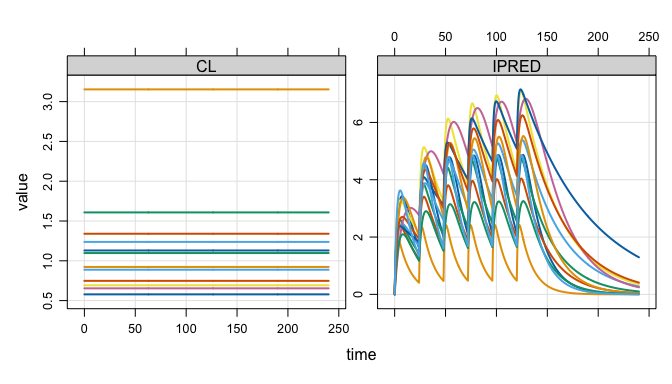
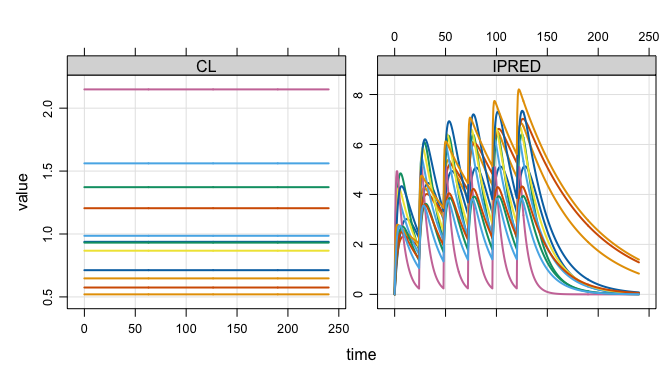
readme

diff --git a/README.md b/README.md
@@ -48,15 +48,15 @@ out
 . Model: popex
 . Dim  : 1.4M 4
 . Files: 1 [11.9 Mb]
-.     ID time       CL     IPRED
-. 1:   1  0.0 1.129794 0.0000000
-. 2:   1  0.0 1.129794 0.0000000
-. 3:   1  0.5 1.129794 0.6439222
-. 4:   1  1.0 1.129794 1.1894373
-. 5:   1  1.5 1.129794 1.6492413
-. 6:   1  2.0 1.129794 2.0344480
-. 7:   1  2.5 1.129794 2.3547845
-. 8:   1  3.0 1.129794 2.6187631
+.     ID time        CL     IPRED
+. 1:   1  0.0 0.9378183 0.0000000
+. 2:   1  0.0 0.9378183 0.0000000
+. 3:   1  0.5 0.9378183 0.3418841
+. 4:   1  1.0 0.9378183 0.6537741
+. 5:   1  1.5 0.9378183 0.9377534
+. 6:   1  2.0 0.9378183 1.1957705
+. 7:   1  2.5 0.9378183 1.4296478
+. 8:   1  3.0 0.9378183 1.6410894
 ```
 
 ## Very lightweight simulation output object
@@ -66,7 +66,7 @@ a pointer to the data in parquet files on your disk.
 
 ``` r
 out$files
-. [1] "/private/var/folders/zv/v6tkdhrn1_bb1ndrc0c0j31w0000gp/T/RtmpiEv4aD/mrgsims-ds-96c259c88542.parquet"
+. [1] "/private/var/folders/zv/v6tkdhrn1_bb1ndrc0c0j31w0000gp/T/RtmpBtQTkk/mrgsims-ds-980626131e90.parquet"
 ```
 
 This means there is almost nothing inside the object itself
@@ -109,23 +109,23 @@ head(out)
 . # A tibble: 6 × 4
 .      ID  time    CL IPRED
 .   <dbl> <dbl> <dbl> <dbl>
-. 1     1   0    1.13 0    
-. 2     1   0    1.13 0    
-. 3     1   0.5  1.13 0.644
-. 4     1   1    1.13 1.19 
-. 5     1   1.5  1.13 1.65 
-. 6     1   2    1.13 2.03
+. 1     1   0   0.938 0    
+. 2     1   0   0.938 0    
+. 3     1   0.5 0.938 0.342
+. 4     1   1   0.938 0.654
+. 5     1   1.5 0.938 0.938
+. 6     1   2   0.938 1.20
 
 tail(out)
 . # A tibble: 6 × 4
 .      ID  time    CL IPRED
 .   <dbl> <dbl> <dbl> <dbl>
-. 1  3000  238. 0.672 0.230
-. 2  3000  238  0.672 0.226
-. 3  3000  238. 0.672 0.223
-. 4  3000  239  0.672 0.220
-. 5  3000  240. 0.672 0.216
-. 6  3000  240  0.672 0.213
+. 1  3000  238. 0.313  3.95
+. 2  3000  238  0.313  3.93
+. 3  3000  238. 0.313  3.91
+. 4  3000  239  0.313  3.90
+. 5  3000  240. 0.313  3.88
+. 6  3000  240  0.313  3.87
 
 dim(out)
 . [1] 1446000       4
@@ -139,16 +139,16 @@ as_tibble(out)
 . # A tibble: 1,446,000 × 4
 .       ID  time    CL IPRED
 .    <dbl> <dbl> <dbl> <dbl>
-.  1     1   0    1.13 0    
-.  2     1   0    1.13 0    
-.  3     1   0.5  1.13 0.644
-.  4     1   1    1.13 1.19 
-.  5     1   1.5  1.13 1.65 
-.  6     1   2    1.13 2.03 
-.  7     1   2.5  1.13 2.35 
-.  8     1   3    1.13 2.62 
-.  9     1   3.5  1.13 2.83 
-. 10     1   4    1.13 3.01 
+.  1     1   0   0.938 0    
+.  2     1   0   0.938 0    
+.  3     1   0.5 0.938 0.342
+.  4     1   1   0.938 0.654
+.  5     1   1.5 0.938 0.938
+.  6     1   2   0.938 1.20 
+.  7     1   2.5 0.938 1.43 
+.  8     1   3   0.938 1.64 
+.  9     1   3.5 0.938 1.83 
+. 10     1   4   0.938 2.00 
 . # ℹ 1,445,990 more rows
 ```
 
@@ -190,15 +190,15 @@ collect(dd)
 .     time  Mean
 .    <dbl> <dbl>
 .  1   0    0   
-.  2   0.5  1.12
-.  3   1    1.82
-.  4   1.5  2.28
-.  5   2    2.59
-.  6   2.5  2.80
-.  7   3    2.95
-.  8   3.5  3.04
-.  9  16.5  2.21
-. 10  17.5  2.12
+.  2   0.5  1.08
+.  3   1    1.76
+.  4   1.5  2.22
+.  5   2    2.53
+.  6   2.5  2.74
+.  7   3    2.88
+.  8   3.5  2.98
+.  9  16.5  2.17
+. 10  17.5  2.08
 . # ℹ 471 more rows
 ```
 
@@ -209,7 +209,6 @@ in parallel, with large outputs
 
 ``` r
 library(future.apply)
-. Loading required package: future
 
 plan(multisession, workers = 5L)
 
@@ -218,18 +217,15 @@ out2 <- future_lapply(1:10, \(x) { mrgsim_ds(mod, data) }, future.seed = TRUE)
 out2 <- reduce_ds(out2)
 
 out2
-. Model: popex
-. Dim  : 14.5M 4
-. Files: 10 [119.1 Mb]
-.     ID time        CL     IPRED
-. 1:   1  0.0 0.4495773 0.0000000
-. 2:   1  0.0 0.4495773 0.0000000
-. 3:   1  0.5 0.4495773 0.1298014
-. 4:   1  1.0 0.4495773 0.2512894
-. 5:   1  1.5 0.4495773 0.3649585
-. 6:   1  2.0 0.4495773 0.4712740
-. 7:   1  2.5 0.4495773 0.5706739
-. 8:   1  3.0 0.4495773 0.6635699
+.     ID time       CL    IPRED
+. 1:   1  0.0 1.007791 0.000000
+. 2:   1  0.0 1.007791 0.000000
+. 3:   1  0.5 1.007791 2.113519
+. 4:   1  1.0 1.007791 3.270806
+. 5:   1  1.5 1.007791 3.881961
+. 6:   1  2.0 1.007791 4.181733
+. 7:   1  2.5 1.007791 4.304486
+. 8:   1  3.0 1.007791 4.327114
 ```
 
 ## Files on disk are automagically managed
@@ -239,11 +235,11 @@ All `arrow` files are stored in the `tempdir()` in parquet format
 ``` r
 list_temp()
 . 11 files [131.1 Mb]
-. - mrgsims-ds-96c259c88542.parquet
-. - mrgsims-ds-96ff4f6d3c31.parquet
+. - mrgsims-ds-980626131e90.parquet
+. - mrgsims-ds-9843615e9a33.parquet
 .    ...
-. - mrgsims-ds-9703728d7e67.parquet
-. - mrgsims-ds-9703791d4c8f.parquet
+. - mrgsims-ds-984723a0c38c.parquet
+. - mrgsims-ds-9847afa021d.parquet
 ```
 
 This directory is eventually removed when the R session ends. Tools are
@@ -255,11 +251,11 @@ retain_temp(out2)
 
 list_temp()
 . 10 files [119.1 Mb]
-. - mrgsims-ds-96ff4f6d3c31.parquet
-. - mrgsims-ds-96ffc8addb4.parquet
+. - mrgsims-ds-9843615e9a33.parquet
+. - mrgsims-ds-9843701e7bfe.parquet
 .    ...
-. - mrgsims-ds-9703728d7e67.parquet
-. - mrgsims-ds-9703791d4c8f.parquet
+. - mrgsims-ds-984723a0c38c.parquet
+. - mrgsims-ds-9847afa021d.parquet
 ```
 
 We also put a finalizer on each object so that, when it goes out of
@@ -298,8 +294,8 @@ cleaned up.
 ``` r
 gc()
 .            used  (Mb) gc trigger  (Mb) limit (Mb) max used  (Mb)
-. Ncells  1695676  90.6    3059988 163.5         NA  2670002 142.6
-. Vcells 14759752 112.7   30247478 230.8      16384 26541840 202.5
+. Ncells  1695895  90.6    3059958 163.5         NA  2663195 142.3
+. Vcells 14761887 112.7   30250016 230.8      16384 26543927 202.6
 
 list_temp()
 . 2 files [23.8 Mb]
